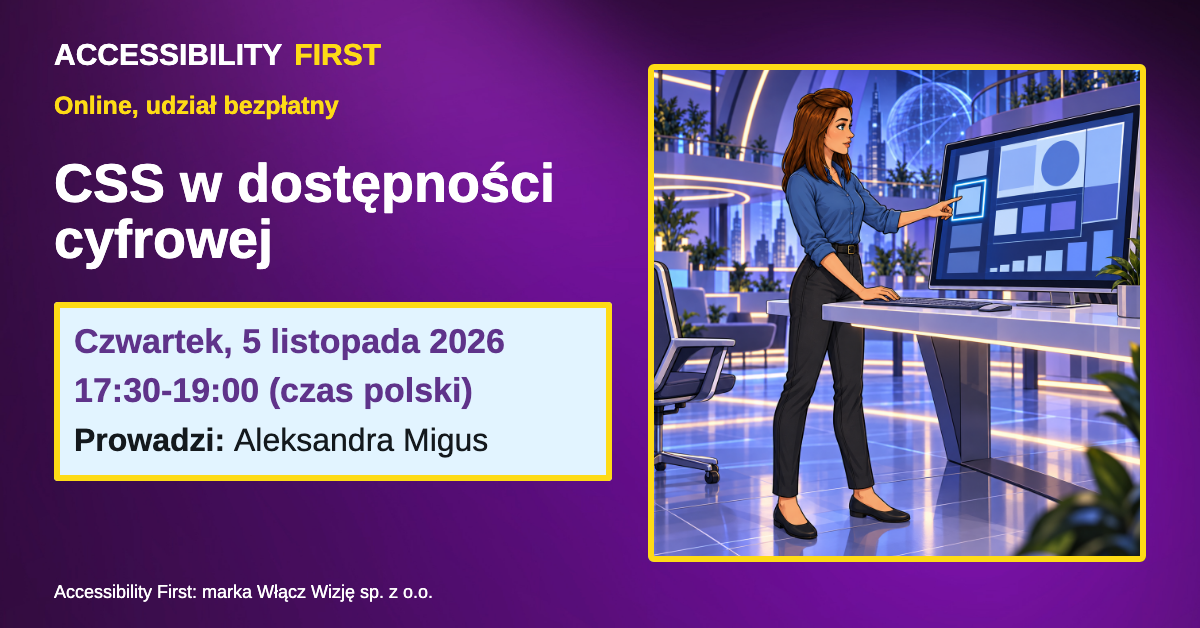
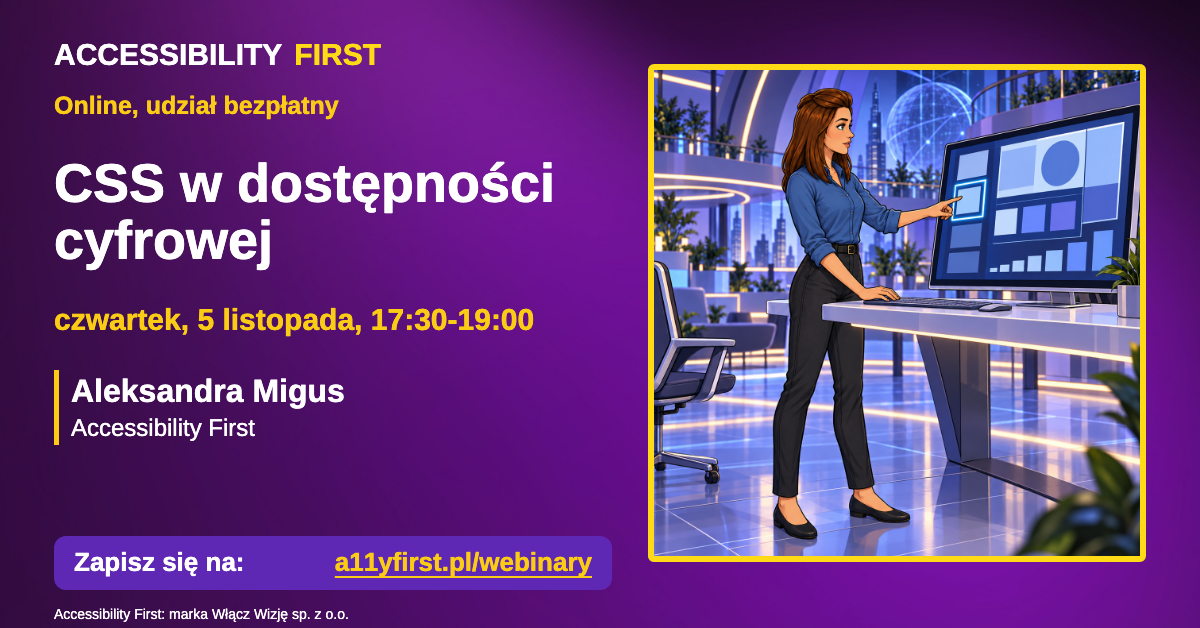
Webinar CSS: OG v6 w stylu SiteLint (bez ramki, CTA), alt z v6
Claude-Session: https://claude.ai/code/session_018Wus6fJKrnewAEMPxJTZou

Changed region(s): [[0.0308, 0.4538, 0.5242, 0.7866], [0.0308, 0.8471, 0.5242, 0.9984], [0.0617, 0.3631, 0.2158, 0.4236]]

diff --git a/public/webinary/css-w-dostepnosci-cyfrowej.html b/public/webinary/css-w-dostepnosci-cyfrowej.html
@@ -20,7 +20,7 @@
     <meta property="og:image" content="https://www.a11yfirst.pl/assets/webinary/2026/css-w-dostepnosci-cyfrowej/og-1200x628.png">
     <meta property="og:image:width" content="1200">
     <meta property="og:image:height" content="628">
-    <meta property="og:image:alt" content="Accessibility First. CSS w dostępności cyfrowej. Online, udział bezpłatny. Czwartek, 5 listopada 2026, 17:30-19:00 (czas polski). Prowadzi: Aleksandra Migus. Accessibility First: marka Włącz Wizję sp. z o.o. Ola w niebieskiej koszuli stoi profilem przy komputerze. Wskazuje wyróżniony obrys prostokąta na ekranie z siatką, kontrastowymi polami i słupkami różnej wielkości. Cała sylwetka jest widoczna.">
+    <meta property="og:image:alt" content="Bezpłatny webinar online „CSS w dostępności cyfrowej”, czwartek, 5 listopada 2026, godz. 17:30–19:00 (czas polski). Prowadzi Aleksandra Migus, Accessibility First. Zapisz się na: a11yfirst.pl/webinary.">
     <meta name="twitter:card" content="summary_large_image">
     <meta name="twitter:title" content="Webinar: CSS w dostępności cyfrowej, 05.11.2026 - Accessibility First">
     <meta name="twitter:description" content="Bezpłatny webinar online o tym, jak CSS wpływa na dostępność cyfrową. Prowadzi Aleksandra Migus. Czwartek 5 listopada 2026, 17:30-19:00.">
